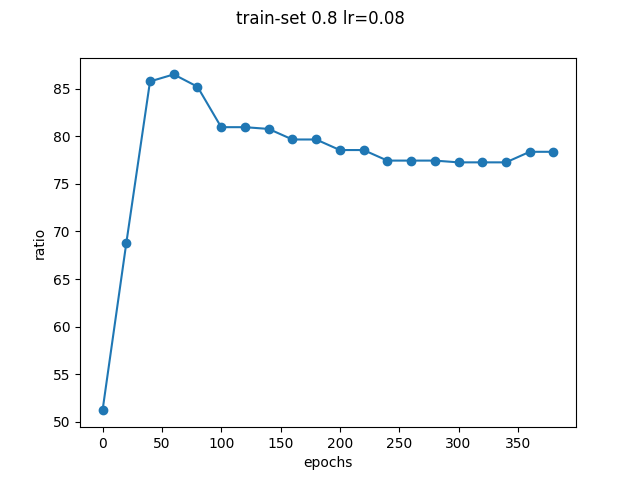
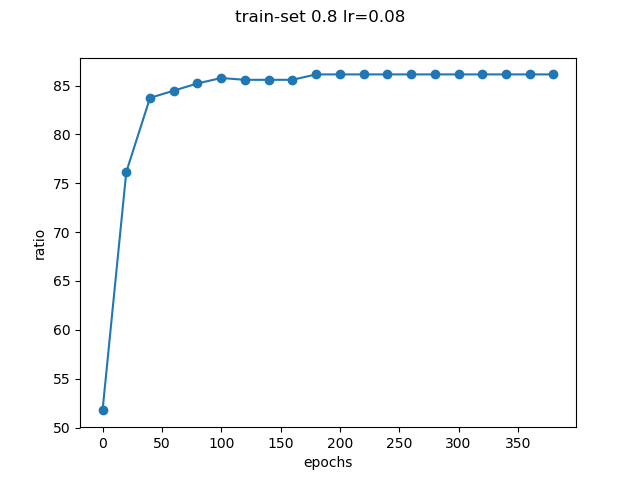
po konsultacjach

diff --git a/src/training.py b/src/training.py
@@ -1,5 +1,5 @@
 from src.CsvReader import *
-from src.Network import Network, save_network_to_file, load_network_from_file, get_rating
+from src.Network import Network, get_rating
 from random import shuffle
 
 import matplotlib
@@ -73,7 +73,7 @@ def test_network_manually(network):
     print(get_rating(result))
 
 
-def train_network(lr):
+def train_network(lr, n_epoch, filename):
     wines = get_normalized_data('../data/winequality-red.csv')
     poor_wines = get_poor_wines(wines)  # only wines with quality less than 6.5
     good_wines = get_good_wines(wines)  # only wines with quality greater than 6.5
@@ -91,10 +91,6 @@ def train_network(lr):
     copies_of_good_wines = int(
         nr_of_poor_wines / nr_of_good_wines)  # amount of copies of good wines so the amount of good and poor wines is the same
 
-    print("Good = " + str(nr_of_good_wines))
-    print("Poor = " + str(nr_of_poor_wines))
-    print("Copies = " + str(copies_of_good_wines))
-
     for data in get_training_data(nr_of_poor_wines, poor_wines):
         training_set.append(copy.deepcopy(data))
     for data in get_training_data(nr_of_good_wines, good_wines):
@@ -104,10 +100,6 @@ def train_network(lr):
     shuffle(training_set)
 
     seperate_inputs_and_outputs(training_set, training_input_set, training_output_set)
-
-    print(len(training_input_set))
-    print(len(training_output_set))
-    print(len(training_set))
 
     testing_input_set = []
     testing_output_set = []
@@ -121,16 +113,10 @@ def train_network(lr):
             testing_set.append(copy.deepcopy(data))
 
     seperate_inputs_and_outputs(testing_set, testing_input_set, testing_output_set)
-    print(len(testing_input_set))
-    print(len(testing_output_set))
-    print(len(testing_set))
 
     network = Network()
-    network.learningRate = 0.05
 
     copy_network = copy.deepcopy(network)
-
-    n_epoch = 400
 
     step = 20
 
@@ -168,7 +154,7 @@ def train_network(lr):
     plt.plot(epochs, ratios, linestyle="-", marker='o')
     plt.xlabel("epochs")
     plt.ylabel("ratio")
-    plt.suptitle('train-set ' + str(training_size) + " lr=0.08", fontSize=12)
+    plt.suptitle('train-set ' + str(training_size) + ' learning rate: ' + str(lr), fontSize=12)
 
-    plt.savefig('../diagrams/loweringLR3.png')
+    plt.savefig('../diagrams/'+str(filename)+'.png')
     return network

diff --git a/src/main.py b/src/main.py
@@ -13,9 +13,11 @@ if 1 > user_input > 3:
     print("Błędna liczba")
 elif user_input == 1:
     print("Wybrano opcję 1.")
-    file_name = input("Proszę wprowadzić nazwę pliku wyjściowego: ")
+    file_name = input("Proszę wprowadzić nazwę pliku wyjściowego sieci: ")
+    picture_name = input("Proszę wprowadzić nazwę pliku, w ktorym znajdzie sie wykres: ")
     learing_rate = input("Proszę wprowadzić learning rate: ")
-    netw = train_network(float(learing_rate))
+    epochs = input("Proszę wprowadzić ilość epok: ")
+    netw = train_network(float(learing_rate), int(epochs), picture_name)
     save_network_to_file(netw,file_name)
 
 elif user_input == 2:
